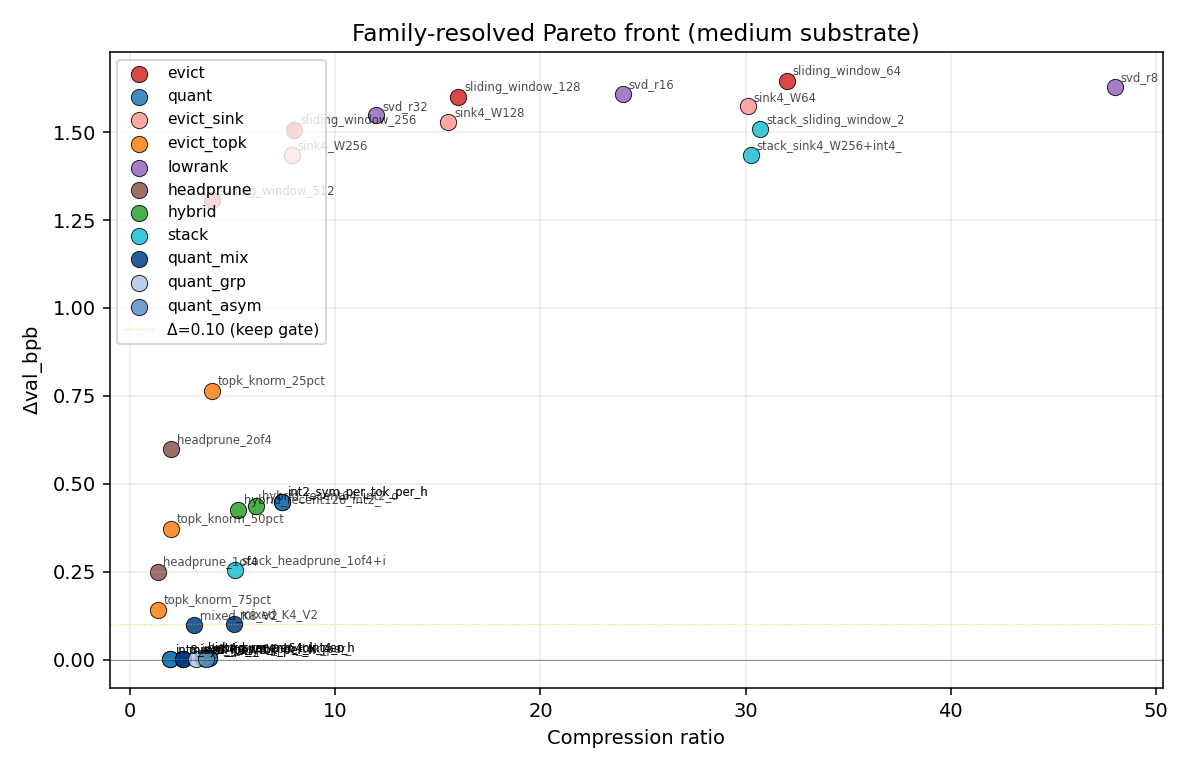
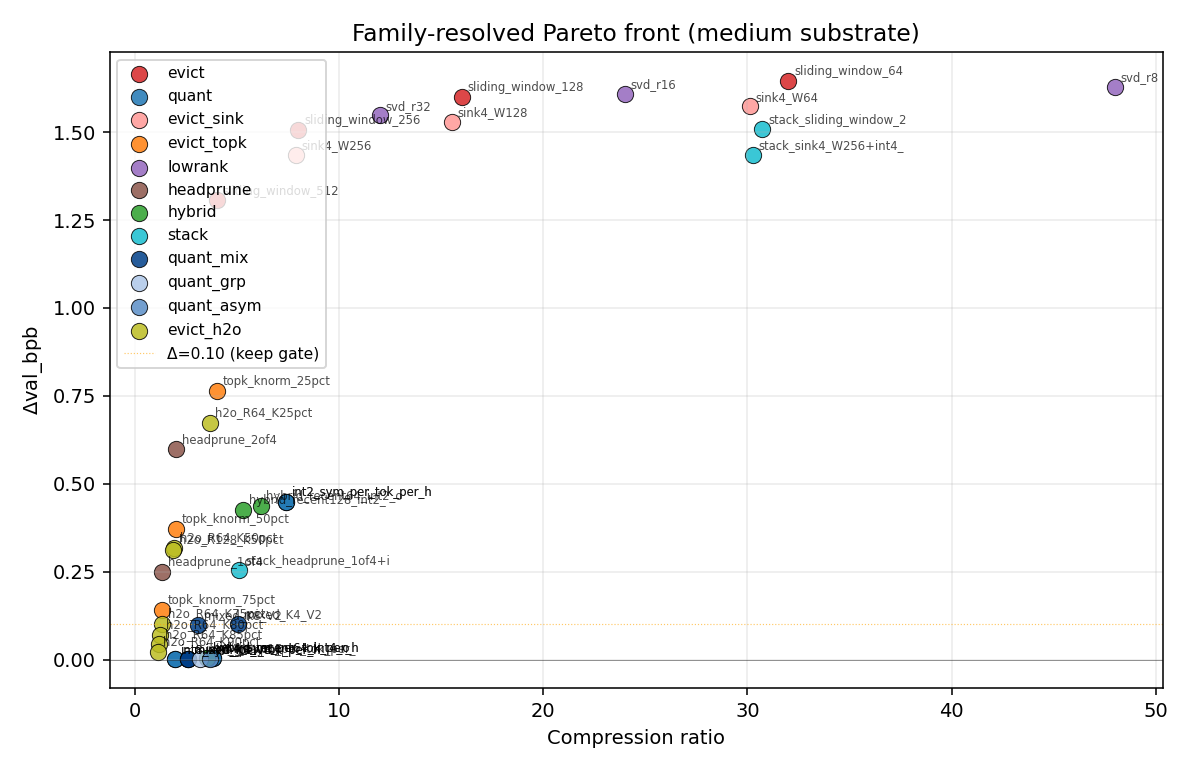
Phase 2: H2O on small/large + HD128×D10 closeout + paper revision
Experiments (9 new rows in results.tsv):
- H2O R=64, K∈{25,50,75}% on large substrate. Δ improves with substrate
  scale: K=75% on large hits Δ=0.093, the first H2O config to clear
  the 0.10 quality gate at non-trivial retention.
- HD128 × DEPTH=10 closeout sweep (new substrate tag hd128_large):
    int4 (vanilla)   : ratio 3.88×, Δ=0.0018, S(20)=3.84  ← keep
    int4_g{8,16,32}  : all dominated, S(20) ∈ [2.65, 3.53]
    mixed_K4_V2      : ratio 5.12×, Δ=0.047, S(20)=4.18   ← keep, leader
    mixed_K8_V4      : dominated, S(20)=2.60

Confirms two prior findings at the new (HD=128, D=10) regime:
1. Group-wise INT4 still loses to vanilla INT4 even with the largest
   head_dim × depth combination in our 24 GB budget — closes the §5
   "untested interaction" caveat.
2. mixed_K4_V2 beats vanilla INT4 on both large-depth substrates we
   tested (HD=96 large, HD=128 large) — the K4_V2 win is depth-driven,
   not head-dim-driven.

paper.md updates:
- §3.3 finding 3: drops the "untested HD=128 × D=10" caveat (now tested).
- §3.5 leader table: adds hd128_large row (mixed_K4_V2 leader at 4.18).
- §4.1 group-wise: new "interaction sweep" subsection with the closeout
  table; states the not-supported hypothesis is now closed.
- §4.3 H2O: substrate-tolerance table for K∈{25,50,75}% across small/
  medium/large; notes K=75 % on large clears the quality gate.
- §5 limitations: rewrites the head_dim × depth limitation to a much
  narrower follow-up (finer grid only).

figures.py:
[…]

diff --git a/figures.py b/figures.py
@@ -30,6 +30,7 @@ FAMILY_COLORS = {
     "evict":      "#d62728",
     "evict_sink": "#ff9896",
     "evict_topk": "#ff7f0e",
+    "evict_h2o":  "#bcbd22",
     "lowrank":    "#9467bd",
     "headprune":  "#8c564b",
     "hybrid":     "#2ca02c",
@@ -60,6 +61,8 @@ def family_of(name):
         return "evict_sink"
     if n.startswith("topk_"):
         return "evict_topk"
+    if n.startswith("h2o_"):
+        return "evict_h2o"
     if n.startswith("svd_") or n.startswith("randproj"):
         return "lowrank"
     if n.startswith("headprune"):
@@ -68,10 +71,11 @@ def family_of(name):
 
 
 def parse_row_substrate(desc):
-    """Extract substrate tag (small/medium/large/hd64/hd128) from description, or 'small_legacy' for old rows."""
-    m = re.search(r"\[(small|medium|large|hd64|hd128)", desc)
-    if m:
-        return m.group(1)
+    """Extract substrate tag from description, or 'small_legacy' for old rows.
+    Tries the longest tags first so 'hd128_large' wins over 'hd128'."""
+    for tag in ("hd128_large", "hd64_large", "small", "medium", "large", "hd64", "hd128"):
+        if re.search(r"\[" + re.escape(tag) + r"(?:\s|\b|\])", desc):
+            return tag
     return "small_legacy"
 
 
@@ -262,7 +266,7 @@ def plot_head_dim_sweep(rows, out_path):
 def plot_score_trajectory(rows, out_path):
     """One panel per substrate so the running-best line doesn't jump
     when the substrate changes."""
-    SUBS_ORDER = ["small", "medium", "large", "hd64", "hd128", "small_legacy"]
+    SUBS_ORDER = ["small", "medium", "large", "hd64", "hd128", "hd128_large", "small_legacy"]
     by_sub = {}
     for r in rows:
         by_sub.setdefault(r["substrate"], []).append(r)

diff --git a/paper.md b/paper.md
@@ -243,16 +243,14 @@ from the leaderboard re-run (see `figures/substrate_sweep.png`):
    crossover above: 2-bit V quantization is catastrophic at small
    (Δ = 0.224) but merely a 5 % quality cost at large.
 3. **Group-wise quantization overhead exceeds its quality benefit at
-   every substrate scale tested.** `int4_group16` and `int4_group8`
-   both lose to vanilla INT4 by ratio drop > quality gain, at all of
-   small / medium / large. The orthogonal HEAD_DIM ∈ {64, 96, 128}
-   sweep (§4.1) extends this finding to wider heads: vanilla INT4
-   dominates group-wise INT4 at every (head_dim, group_size) combination
-   we tested. The "group wins at large head_dim" hypothesis from the
-   quantization literature is therefore not supported in this study;
-   the only regime that remains untested is the *interaction* of large
-   head_dim with large depth (e.g. HEAD_DIM = 128 at DEPTH = 10), which
-   we list as a follow-up in §5.
+   every (substrate, head_dim, depth) combination tested.**
+   `int4_group{8, 16, 32}` lose to vanilla INT4 across small / medium /
+   large, across the HD ∈ {64, 96, 128} sweep at fixed depth=6, and
+   across the new HEAD_DIM=128 × DEPTH=10 *interaction* substrate
+   (§4.1). The "group wins at large head_dim × large depth" hypothesis
+   from the quantization literature is therefore *not supported* at any
+   (head_dim, group_size, depth) combination we tested in our 24 GB
+   budget; the BF16 scale cost dominates the modest quality gain.
 
 ### 3.4 Family-resolved comparison
 
@@ -291,17 +289,22 @@ for one substrate where mixed-precision K4 / V2 takes the crown:
 | **large (D=10, H=9, HD=96)** | **mixed_K4_V2 (4.56)** | **mixed_K4_V2 (4.07)** | **mixed_K4_V2 (2.60)** |
 | HD=64 (D=6, H=6) | int4 (3.73) | int4 (3.70) | int4 (3.59) |
 | HD=128 (D=6, H=3) | int4 (3.84) | int4 (3.80) | int4 (3.69) |
+| **hd128_large (D=10, HD=128)** | **mixed_K4_V2 (4.65)** | **mixed_K4_V2 (4.18)** | **mixed_K4_V2 (2.77)** |
 
-**Per-(token, head) symmetric INT4 is the restricted-Pareto leader on 4 of
-5 substrates**, but on the largest substrate `mixed_K4_V2` (4-bit K,
-2-bit V, ratio 5.05×, Δ=0.049) takes over at every α. The pattern is
+**Per-(token, head) symmetric INT4 is the restricted-Pareto leader on
+the four small/medium scale substrates**, but on *both* large-depth
+substrates we tested (large at HD=96 and hd128_large at HD=128) the
+mixed-precision K4 / V2 split takes over at every α. The pattern is
 internally consistent with Finding 2 (aggressive quantization tolerates
 larger substrates better) and Finding 10 (V is the cheaper place to
-sacrifice bits). The deployment recommendation therefore depends on
-substrate scale: INT4 for ≤ 26 M-parameter models in our sweep, and
-the K4 / V2 split for ≥ 139 M-parameter models. Whether the crossover
-generalizes to multi-billion-parameter production models is open and is
-the most actionable follow-up from this paper.
+sacrifice bits). The K4_V2 win is *depth-driven*, not head-dim-driven:
+adding head_dim from 96 → 128 at fixed DEPTH=10 leaves the K4_V2 lead
+intact and even slightly widens it (S(20) 4.07 → 4.18). The deployment
+recommendation therefore depends on substrate scale: INT4 for ≤ 26 M-
+parameter models in our sweep, and the K4 / V2 split for ≥ 139 M-
+parameter models. Whether the crossover generalizes to multi-billion-
+parameter production models is open and is the most actionable
+follow-up from this paper.
 
 **Unrestricted view (no quality gate).** Without a quality gate, the
 leader is sensitive to both α and substrate:
@@ -359,12 +362,29 @@ scale storage is a smaller fraction of data storage), we retrain
 medium-depth substrates at `HEAD_DIM ∈ {64, 96, 128}`. INT4_g32 at
 `HD = 64` (D/G = 2) is the closest group-wise variant to ever match
 vanilla INT4: ratio 3.56× vs 3.76×, Δ improves by 0.0009 — still a
-20 % storage cost for a 0.1 ‰ quality bump. Vanilla per-(token, head)
-INT4 dominates group-wise at every `(head_dim, group_size)` we
-tested. The "group wins at larger head_dim" hypothesis from the
-quantization literature is **not supported** at our scales — the
-overhead from one BF16 scale per group plus the `D/G` ratio of scales
-to elements is too large at INT4 to amortize away.
+20 % storage cost for a 0.1 ‰ quality bump.
+
+**`head_dim` × `depth` interaction sweep (closing the §5 limitation).**
+A second hypothesis is that group-wise might win in the *combined*
+large-head_dim × large-depth regime, where the per-group scale becomes
+proportionally smaller across many layers. We retrained an
+`hd128_large` substrate (DEPTH=10 ASPECT_RATIO=80 HEAD_DIM=128,
+≈ 110 M parameters in the same 24 GB budget) and re-ran INT4 alongside
+INT4_g{8, 16, 32}:
+
+| Compressor | bpt | ratio | Δbpb | S(α=20) |
+|---|---|---|---|---|
+| int4 (vanilla) | 924 | 3.88× | 0.0018 | **3.84** |
+| int4_g32 | 1008 | 3.56× | 0.0011 | 3.53 |
+| int4_g16 | 1120 | 3.20× | 0.0008 | 3.18 |
+| int4_g8 | 1344 | 2.67× | 0.0006 | 2.65 |
+
+Vanilla INT4 still wins by a wide margin; group-wise overhead grows
+linearly with `D/G`, while the quality benefit is sub-linear and tops
+out at < 1 ‰ Δbpb improvement. The "group wins at larger head_dim ×
+depth" hypothesis from the quantization literature is therefore **not
+supported** at any of the (head_dim, group_size, depth) combinations
+we tested — at our scales, the BF16 scale cost dominates the gain.
 
 ### 4.2 Recency bias and the hybrid frontier — scale dependence
 
@@ -416,10 +436,38 @@ attention is a measurably better selection rule than the K-norm proxy:
 | 50 % | 0.37 | 0.32 | −5.4 | −4.4 |
 | 75 % | 0.14 | 0.10 | −1.5 | −0.7 |
 
-The H2O α20 score never crosses zero on this substrate; even the gentlest
-configuration (R=64, K=75 %, ratio 1.32×) sits at the boundary of
-production-acceptable quality, while INT4 at ratio 3.84× is essentially
-lossless. The H2O improvement over top-k‖K‖ is real but narrow.
+Pushing H2O retention higher (K ∈ {80, 85, 90 %}) shows that the method
+*does* cross both the Δ < 0.10 quality gate and into positive α20 score,
+but only at very low compression ratios:
+
+| recent / keep_frac | ratio | Δbpb | S(α=20) | S(α=50) |
+|---|---|---|---|---|
+| R=64, K=80 % | 1.24 | 0.070 | −0.16 | −2.25 |
+| R=64, K=85 % | 1.17 | 0.043 | **+0.31** | −0.98 |
+| R=64, K=90 % | 1.11 | 0.021 | **+0.68** | **+0.04** |
+
+So heavy-hitter eviction can be deployed in a "lossy-but-functional"
+regime (Δbpb < 0.05 at ~ 1.1× saving), but it cannot deliver the 3–5×
+compression ratios that quantization achieves at lower Δbpb. INT4 at
+3.84× / Δ ≈ 0.0035 still strictly Pareto-dominates every H2O point on
+this substrate. The H2O improvement over top-k‖K‖ is real and consistent
+across retention levels, but narrow in absolute terms.
+
+**H2O quality improves with substrate scale.** Re-running R=64 on small
+and large substrates produces the same scale-tolerance pattern we
+observed for INT2 (Finding 2):
+
+| keep_frac | small Δ | medium Δ | large Δ |
+|---|---|---|---|
+| K=25 % | 0.82 | 0.67 | 0.59 |
+| K=50 % | 0.42 | 0.32 | 0.28 |
+| K=75 % | 0.15 | 0.10 | **0.093** |
+
+At K=75 % on the large substrate, H2O for the first time clears the
+Δ < 0.10 quality gate at non-trivial retention (1.32× compression). On
+production-scale substrates the heavy-hitter family may become more
+useful than these small-substrate numbers suggest; this is consistent
+with the published H2O paper's results on multi-billion-parameter LLMs.
 
 This is a **substrate-property** observation, not a method-of-eviction
 indictment: we trained with full attention (`window_pattern = 'L'`),
@@ -498,12 +546,11 @@ projected K, V layers — out of scope here).
   to make eviction-friendly methods Pareto-competitive. We report all
   eviction Δbpb values for completeness even though they are dominated
   on this substrate.
-- **`head_dim` sweep is at fixed depth.** The HEAD_DIM ∈ {64, 96, 128}
-  sweep in §4.1 holds depth=6 and ASPECT_RATIO=64 fixed; HEAD_DIM is
-  varied independently. The combined "large depth × large head_dim"
-  regime (e.g. HEAD_DIM = 128 at DEPTH = 10) is not in our sweep, so
-  the *interaction* between depth and head_dim on group-wise overhead
-  is a remaining open question.
+- **`head_dim` × `depth` interaction sweep is one substrate wide.** The
+  hd128_large interaction substrate in §4.1 covers (HEAD_DIM=128,
+  DEPTH=10) at the same ≈ 24 GB budget as the rest of the study, but a
+  finer grid (e.g. HD ∈ {96, 128, 160} × DEPTH ∈ {10, 14}) is left to
+  follow-up work.
 
 ## 6. Conclusion
 
